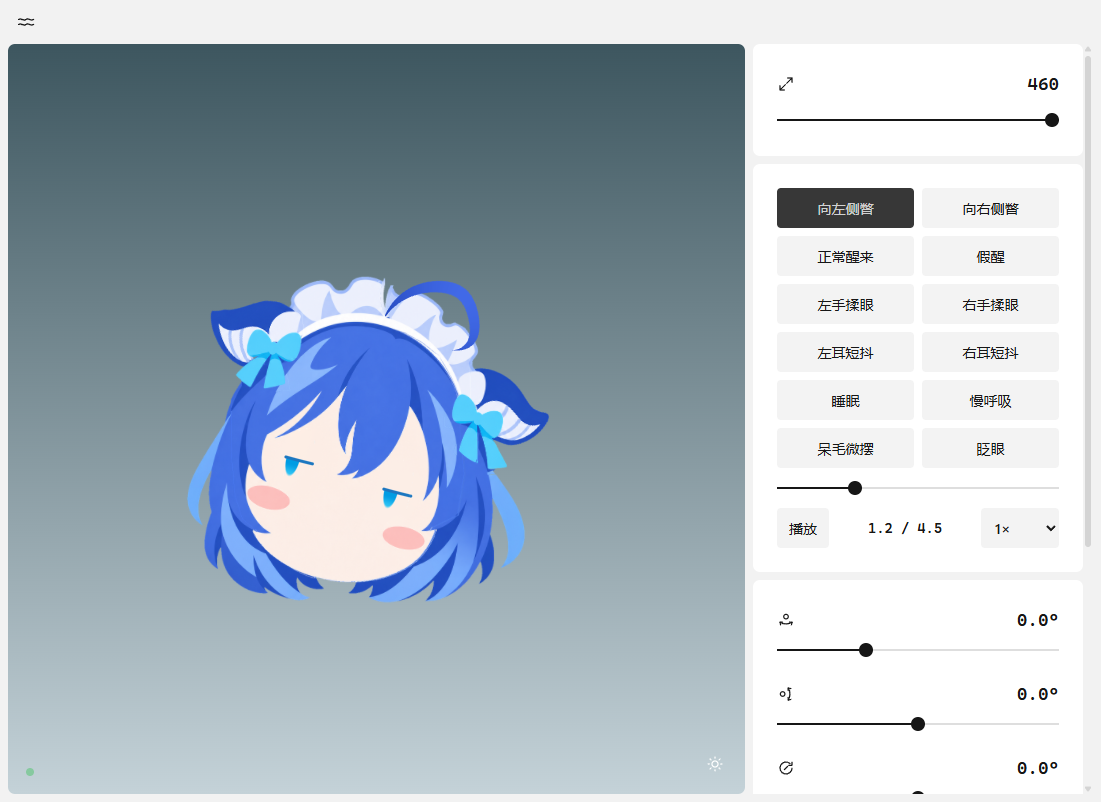
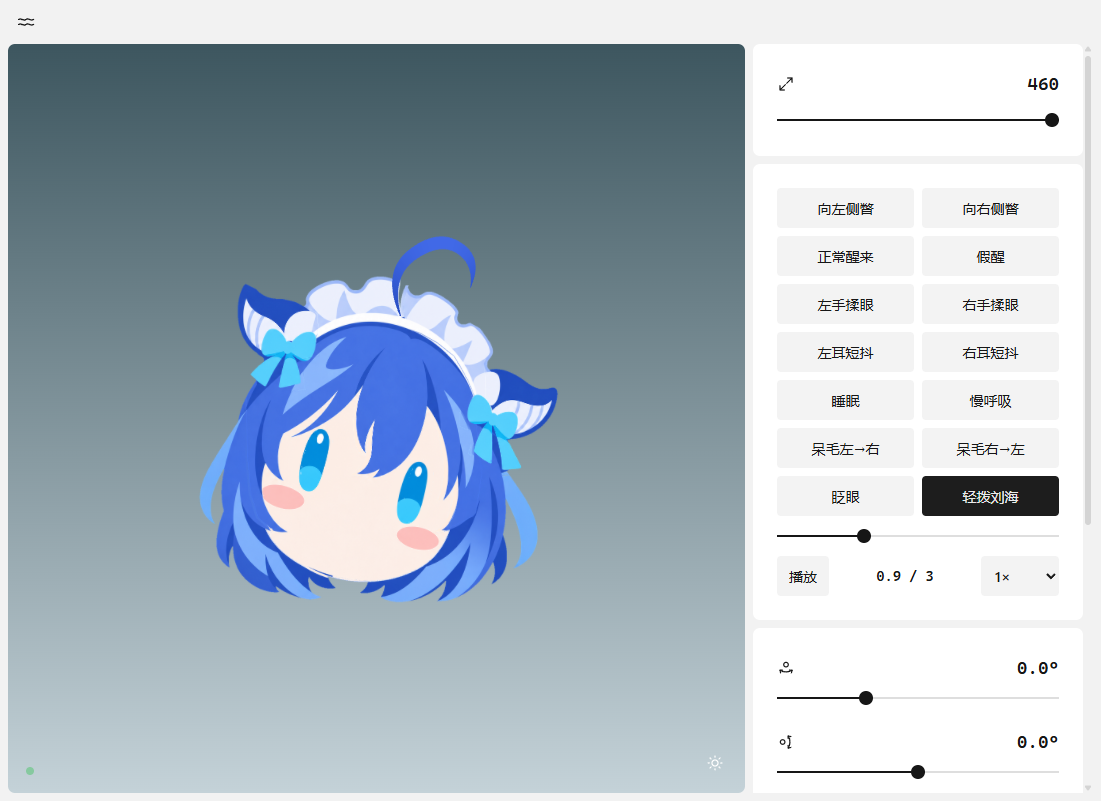
Add subtle fringe interaction and lower ahoge sway on top

diff --git a/index.html b/index.html
@@ -31,6 +31,7 @@
         <button class="preview-button" data-preview="hair_ltr">呆毛左→右</button>
         <button class="preview-button" data-preview="hair_rtl">呆毛右→左</button>
         <button class="preview-button" data-preview="blink">眨眼</button>
+        <button class="preview-button" data-preview="fringe">轻拨刘海</button>
       </div>
       <div id="previewTransport" hidden>
         <input class="range" id="previewTimeline" type="range" min="0" max="6" step="0.01" value="0" aria-label="动画进度">

diff --git a/DEVELOPMENT.md b/DEVELOPMENT.md
@@ -25,7 +25,7 @@ tools/docs/     README 素材生成（抓帧 + 合成，见该目录 README）
 tools/installer/ 单文件安装包生成（C# 自解压 + 打包脚本）
 tools/build-release.ps1  一键构建全部 Windows 发布产物
 docs/           README 图片 + 发版说明
-test/           node --test 单测（当前 137 项）+ Electron 交互回归
+test/           node --test 单测（当前 144 项）+ Electron 交互回归
 ```
 
 ## 2. 环境要求
@@ -48,14 +48,16 @@ npm test           # node --test，逻辑测试
 
 在源码文件夹双击 `open-editor.cmd`（原 `启动动作工作台.cmd` 也指向此入口），或运行 `npm run editor`。本机另有桌面快捷方式“肥鱼动画编辑器”。
 
-编辑器提供 13 个确定性动画预览，含左右侧瞥、单手揉眼、假醒和睡眠微动作，支持暂停、拖动时间轴和 0.25–4 倍速。编辑器直接使用 `Motion` 与同一 WebGL 渲染器。`desktop/editor.cjs` 为开发入口；运行时服务默认禁止编辑器路由。
+编辑器提供 14 个确定性动画预览，含轻拨刘海、左右侧瞥、单手揉眼、假醒和睡眠微动作，支持暂停、拖动时间轴和 0.25–4 倍速。编辑器直接使用 `Motion` 与同一 WebGL 渲染器。`desktop/editor.cjs` 为开发入口；运行时服务默认禁止编辑器路由。
 
 日常开发直接修改源码并重启本机桌宠；只有明确要求发布时才构建 EXE/ZIP。发布清单 `desktop/runtime-files.json` 排除 index/style/app/preview/editor、测试、工具和文档，右键菜单不包含动画按钮或编辑器入口。
 
 调试快捷键：`Ctrl+Shift+F10` 显示/隐藏　`Ctrl+Shift+F11` 回到原位。
 
-### 呆毛与耳朵交互（当前源码）
+### 呆毛、刘海与耳朵交互（当前源码）
 
+- 刘海支持划过轻晃与按住轻拨，发根固定，仅局部末梢弯动；拖动限幅 1.8% 水平 / 0.8% 竖直，松开阻尼回弹。`src/fringe.mjs` 共用控制与变形，脸部继续用于移动窗口。
+- 呆毛换边走下方弧线，始终位于角色最高图层；保持二次轮廓和固定发根。
 - 捏住呆毛后拖动：按实际命中的发丝位置固定抓点，保持发根与头饰连接；沿发丝曲线先用弯曲余量拉直，再最多约 18% 弹性拉伸。抓点附近有轻微捏紧，松手阻尼回弹，疼痛眼睛随之恢复。
 - 单击哪只耳朵，哪只随机快速折动 1–2 次；在耳朵上拖动仍可移动整个角色。
 - 待机时每隔随机 60–120 秒触发一次较轻的单耳扑闪；关闭待机或开启减少动态效果时停用，手动交互会推迟下一次。

diff --git a/docs/release-notes.md b/docs/release-notes.md
@@ -1,8 +1,10 @@
 # 开发中（未打包）
 
+- 增加轻拨刘海：划过轻晃、按住局部弯动、松开回弹；根部固定，减少动态时同步减弱。
+
 - 呆毛改为五控制点二次 B 样条，静态轮廓、拉拽变形及 SVG 的 Q 曲线共用定义，保持发根和接点切线连续。
 
-- 呆毛换边保持发根固定，沿头顶弧线从左摆到右或从右摆到左；编辑器提供两个独立方向预览，睡眠低频换边同步使用。
+- 呆毛换边保持发根固定，沿下方弧线从左摆到右或从右摆到左，始终保持角色最高图层；编辑器提供两个独立方向预览，睡眠低频换边同步使用。
 
 - 左右侧瞥改为无高光、顶部截平的半椭圆，移除三角形尖片；眼睑、闭眼线和疼痛眼线统一加粗为原来的 1.5 倍。
 
@@ -11,7 +13,7 @@
 - 萎靡恢复时约 30% 概率半垂眼皮、瞥向鼠标另一侧并轻挪，睡眠点击唤醒保持独立。
 - 修复闭眼后露出的两块横纹皮肤补片；眼睛改用连续曲线遮罩完成闭合与睁开。
 - 揉眼睛每次只选一只手，另一只手保持搭在任务栏上。
-- 源码编辑器加入 13 组可暂停、拖动时间轴和调速的小动画预览。
+- 源码编辑器加入 14 组可暂停、拖动时间轴和调速的小动画预览。
 - 桌宠右键菜单移除动画与编辑器入口；后续发布包只包含运行文件，开发编辑器保留在源码。
 
 ---

diff --git a/docs/superpowers/plans/2026-11-05-low-sway-fringe.md b/docs/superpowers/plans/2026-11-05-low-sway-fringe.md
@@ -1,0 +1,10 @@
+# Low ahoge sweep and subtle fringe interaction
+
+Use the lower arc between unchanged endpoints: right 75 degrees, left 245 degrees. Keep the quadratic outline and root. The ahoge stays above every other character layer throughout the lower arc; the user explicitly requires it as the top layer. Add local fringe brushing (0.8% x / 0.3% y max) and pulling (1.8% x / 0.8% y max), pinned roots and damped release. Preserve face dragging and click-only sleep wake.
+
+- [x] Change arc; verify middle stays below root while ahoge remains the last drawn layer.
+- [x] Add shared fringe controller/deformation and accurate input in desktop/editor.
+- [x] Add preview; verify roots, limits, release and actual pointer input.
+- [x] Test, sync local runtime and open editor. No packaging/version bump.
+
+Feature validation completed: 144 logic tests passed; native mouse input passed at 150/460 in docked/free modes, with pinned fringe roots, no window drag and release recovery. Both lower-arc directions passed with ahoge always last. Local runtime loaded the new module (HTTP 200) and top-layer renderer; desktop/editor are running. The user subsequently requested packaging, push and Release update after this feature phase.

diff --git a/docs/usage.md b/docs/usage.md
@@ -10,6 +10,8 @@
 - **50% · 开心晃头**：睁着眼睛晃脑袋，呆毛跟着轻摆。
 - **30% · 轻轻回应**：小幅摇晃，反应更安静。
 
+鼠标划过刘海会轻微晃动，也可按住刘海轻拨，松开后缓缓回弹。
+
 捏住呆毛拖动，会先拉直、再回弹；点击哪只耳朵，哪只就快速抖一两下。
 
 ## 状态
@@ -35,7 +37,7 @@
 | 操作 | 方法 |
 | :--- | :--- |
 | 调整大小 | 右键滑块，或在角色上按住 `Ctrl` 滚动鼠标滚轮 |
-| 移动位置 | 贴边时左右拖动；向上拖成悬浮，拖回底部自动吸附 |
+| 移动位置 | 拖动脸部：贴边时左右挪动；向上拖成悬浮，拖回底部自动吸附 |
 | 显示 / 隐藏 | 托盘菜单，或 `Ctrl` + `Shift` + `F10` |
 | 回到原位 | `Ctrl` + `Shift` + `F11` |
 | 退出程序 | 右键菜单中的电源按钮 |
